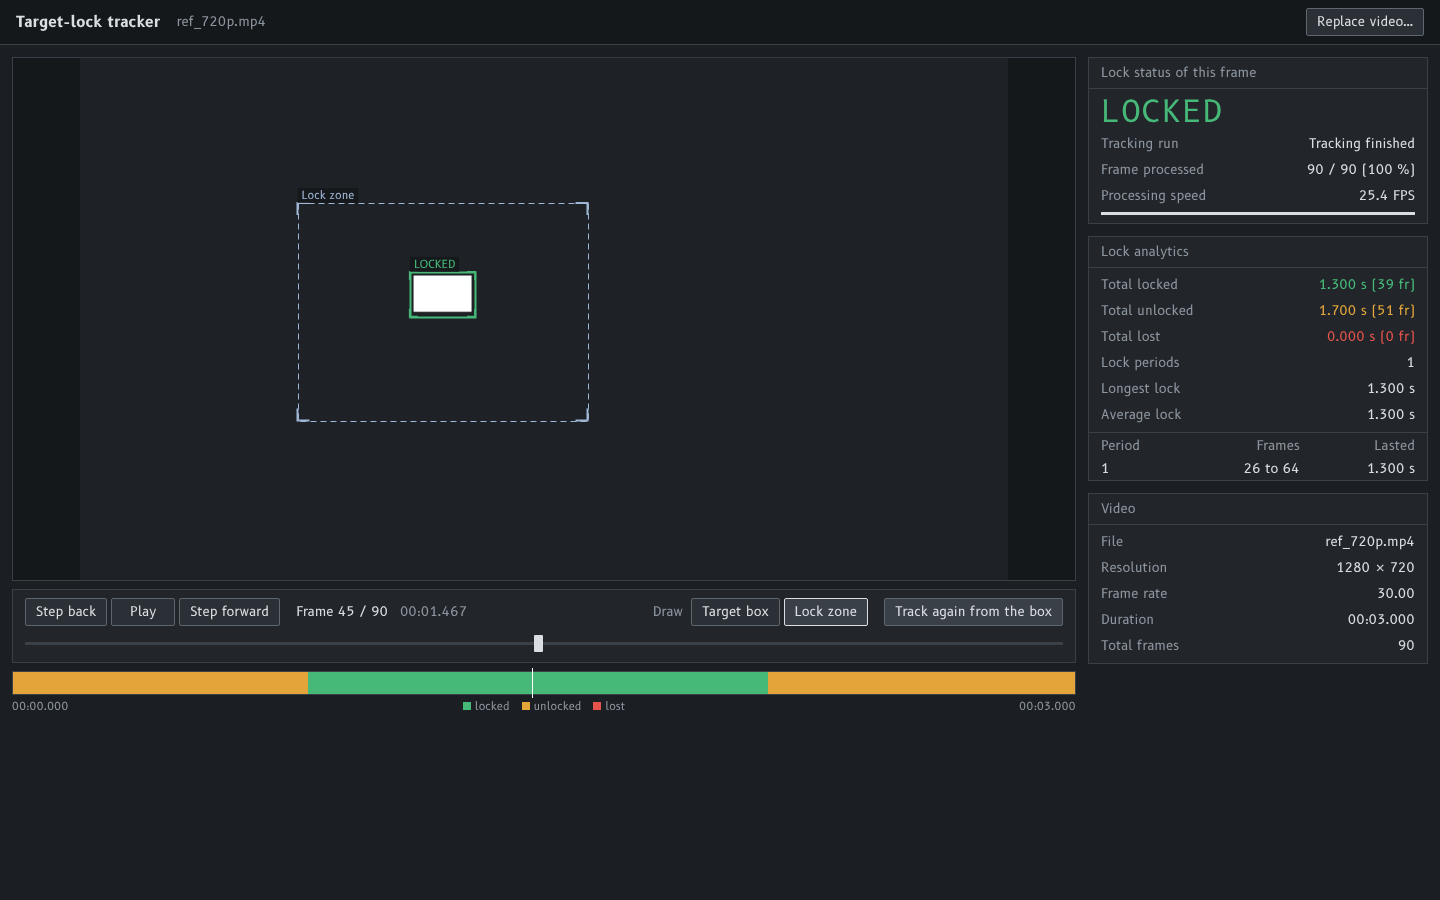
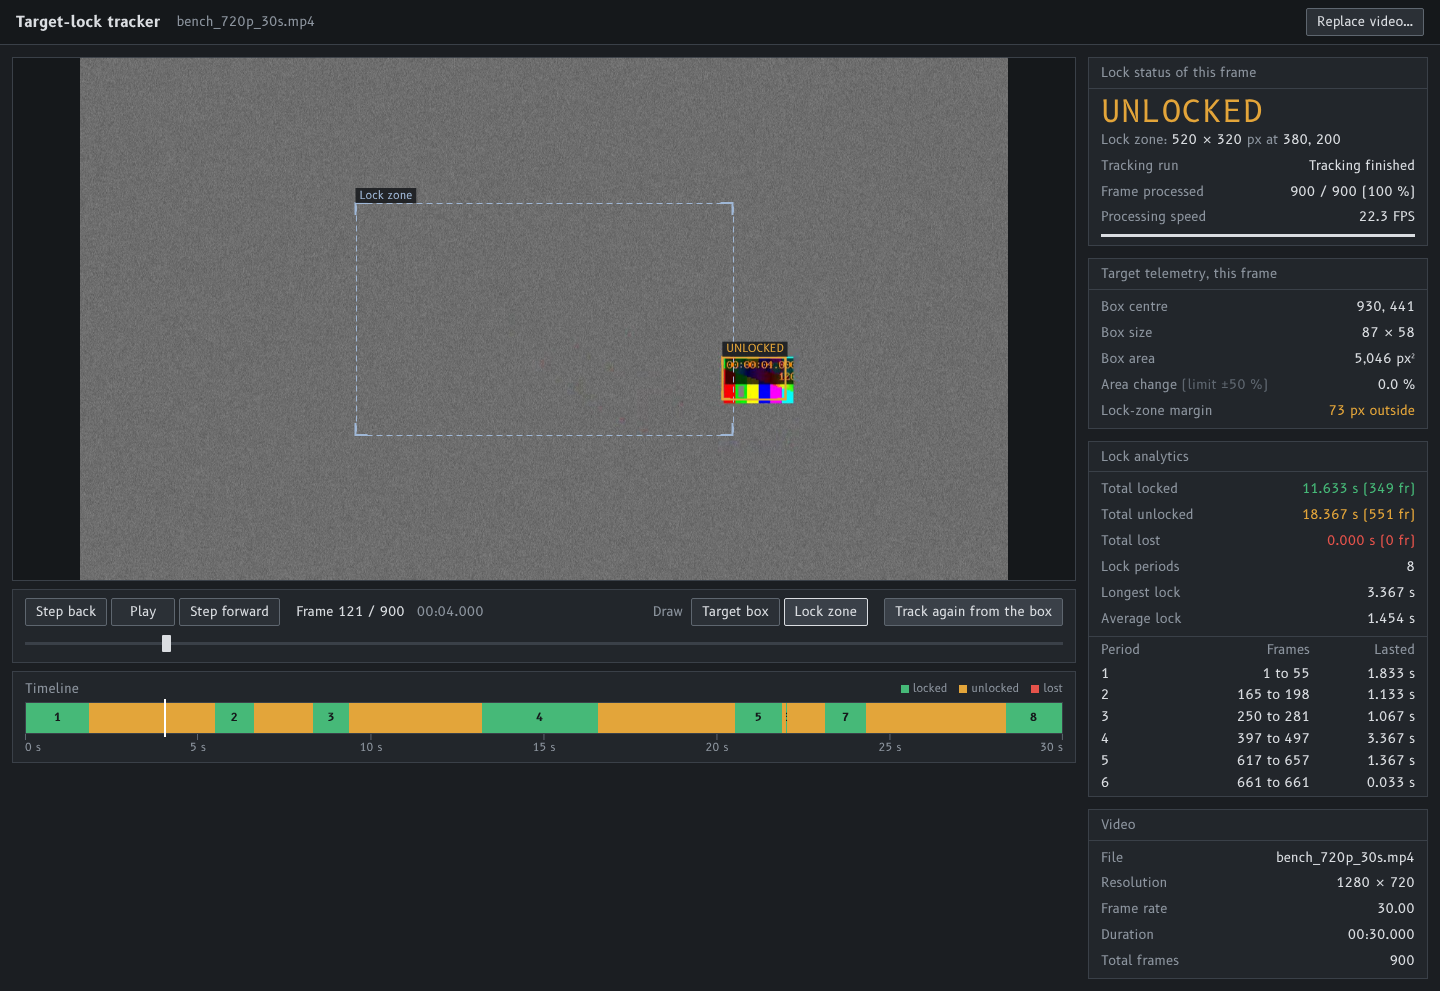
docs: record US-16 to US-18 in the implementation log; update README and screenshot

diff --git a/docs/implementation/IMPLEMENTATION_LOG.md b/docs/implementation/IMPLEMENTATION_LOG.md
@@ -4,11 +4,32 @@ Append one entry per implementation pass (one story per pass), **most recent fir
 
 > **Read this first.** All passes below were made on 2026-11-20 after the operator instructed the agent to continue and finish the project (quoted in `docs/APPROVAL_LOG.md`). **Approval basis for every pass: none signed.** The requirement and architecture entries were unsigned when the code was written. Implementation questions (`IQ-`) were decided by the agent and are marked so. Pull requests could not be opened from the agent's environment; every branch was merged into `main` locally with a merge commit instead of a squash-merged pull request. Each pass names its test commit (red) and its code commit (green) so the order can be checked in the Git history.
 
-**Final state:** `python run.py test` → 246 backend tests (pytest), 68 page-logic tests (Vitest), 14 browser tests (Playwright, Chromium) pass on the agent's Linux machine. 3 further backend tests with real 1 GB files are opt-in (`--slow`) and passed when run once.
+**Final state:** `python run.py test` → 246 backend tests (pytest), 108 page-logic tests (Vitest), 17 browser tests (Playwright, Chromium) pass on the agent's Linux machine. 3 further backend tests with real 1 GB files are opt-in (`--slow`) and passed when run once.
 
 **Scenarios without an end-to-end automated test** (their logic is tested, the on-screen behaviour was not driven by a test): AC-1.4 (cancelling the file chooser), AC-6.9e (dragging the slider fast; the newest-request rule behind it is tested and rapid stepping is driven in the browser), AC-7.4 (moving and resizing a box with the mouse; the geometry is tested), AC-9.3 beyond presence of the numbers, AC-15.2 for the amber colour (green and red are asserted).
 
 ---
+
+## Pass: 2026-11-20 — US-16 to US-18 Console improvements
+
+**Branch:** `feature/console-improvements` · **Red (logic):** `9fd4693` (telemetry tests fail to load; 24 timeline and Play tests fail) · **Red (browser):** `9baf92f` (3 failed) · **Green:** `5194197`
+**Traces to:** DESIGN_c072f79.md US-16 to US-18; ARCHITECTURE_c072f79.md.
+**Chosen by:** the operator, from a list of six proposed improvements, after testing the console with a real clip.
+**Deviation:** three stories in one pass, because they share the same panels and the deadline is 21 November.
+
+| Scenario | Status | Test |
+|---|---|---|
+| AC-16.1 to AC-16.5 telemetry values and formats | ✅ | `frontend/src/lib/telemetry.test.ts`; `test_ac_16_telemetry_of_the_frame_shown` |
+| AC-17.1, AC-17.2 Play waits; "Not tracked yet" | ✅ | `frontend/src/lib/timeline.test.ts`; `test_ac_17_play_waits_for_tracking_and_unreached_frames_say_so` |
+| AC-17.3 starting tracking stops playback | ⚠ implemented, no automated test | — |
+| AC-18.1, AC-18.2 time marks; numbered periods | ✅ | `frontend/src/lib/timeline.test.ts`; `test_ac_18_timeline_has_a_time_scale_and_numbered_periods` |
+
+**Final state after this pass:** 246 backend, 108 page-logic and 17 browser tests pass.
+
+| ID | Question | Status | Resolution |
+|---|---|---|---|
+| IQ-15 | Should a lock period too narrow for its number still be labelled? | Resolved | Decided by the agent: no; the number is hidden by the segment's width, and hovering shows the frames. |
+| IQ-16 | When is the area change highlighted? | Resolved | Decided by the agent: in amber beyond ±40 %, i.e. within 10 points of the 50 % loss limit. |
 
 ## Pass: 2026-11-20 — Fix: no notice when the lock zone is missing (found by the operator with a real clip)
 

diff --git a/README.md b/README.md
@@ -25,8 +25,8 @@ This runs the three test suites and prints one result line for each:
 | Suite | What it covers | Size |
 |---|---|---|
 | Backend (pytest) | Upload rules, frame access, lock logic, tracking, loss and resume | 246 tests |
-| Page logic (Vitest) | Number formats, time-to-frame mapping, box drawing, step and upload decisions | 68 tests |
-| Browser (Playwright, Chromium) | The console driven end to end against the real application | 14 tests |
+| Page logic (Vitest) | Number formats, time-to-frame mapping, box drawing, telemetry, timeline scale, step and upload decisions | 108 tests |
+| Browser (Playwright, Chromium) | The console driven end to end against the real application | 17 tests |
 
 The browser suite downloads Chromium on first use; without it those tests are skipped with a message. `python run.py test --slow` adds three tests that write real 1 GB files to a temporary folder.
 
@@ -36,8 +36,8 @@ The browser suite downloads Chromium on first use; without it those tests are sk
 2. **Look around.** Step one frame at a time, drag the slider, or play. When stopped, the picture is the exact frame the tracker sees.
 3. **Draw the target box** around the target on the frame shown. Drag inside the box to move it, or a corner to resize it.
 4. **Draw the lock zone** after choosing "Lock zone".
-5. **Start tracking.** Progress and processing speed are shown while it runs.
-6. **Read the result.** The timeline under the picture shows locked (green), unlocked (amber) and lost (red) stretches; the panels on the right give the totals, each lock period, and the status of the frame on screen.
+5. **Start tracking.** Progress and processing speed are shown while it runs. Play is available again when tracking has finished.
+6. **Read the result.** The timeline under the picture shows locked (green), unlocked (amber) and lost (red) stretches with a time scale and numbered lock periods; the panels on the right give the status and target telemetry of the frame on screen (box position, size, area change, margin to the zone), the totals, and each lock period.
 7. **If tracking is lost,** the page goes to that frame. Draw a new box there, or on a later frame, and resume.
 
 ## What a video must be
